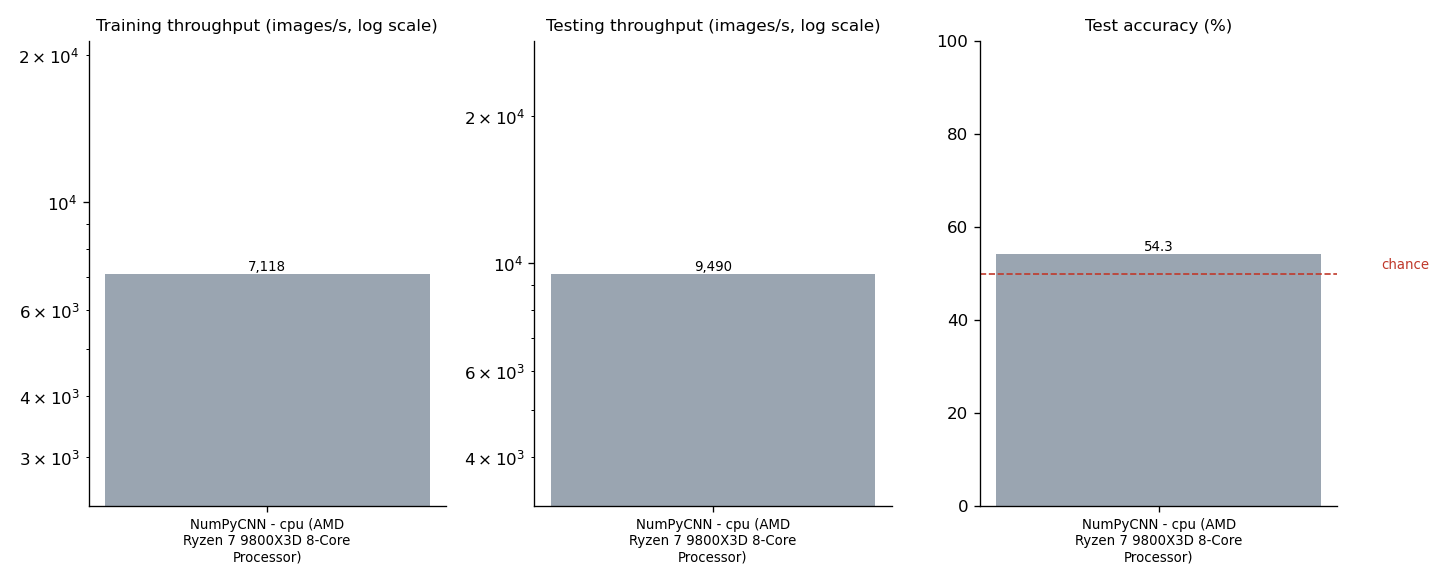
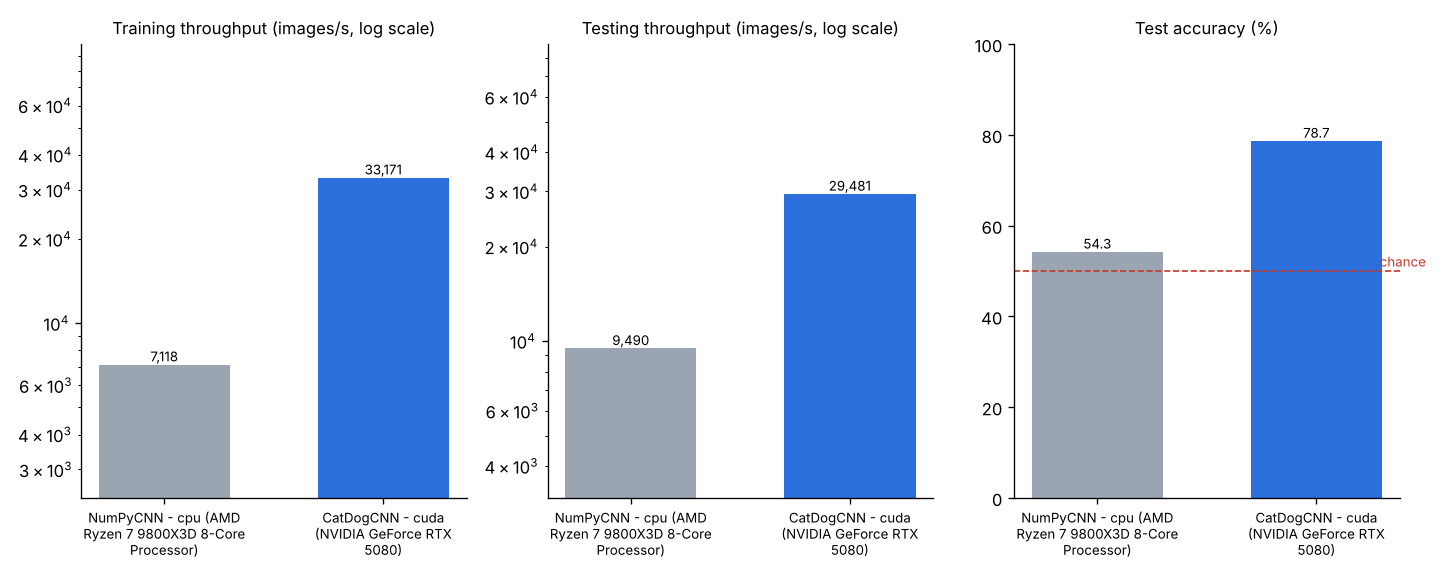
regenerate NumPy vs GPU comparison with final results
- results/comparison.md, .csv, .png, summary.json: both final runs (NumPy CPU vs PyTorch RTX 5080)
- GPU trains 4.7x faster, tests 3.1x faster (12.2x forward-only); accuracy 78.68% vs 54.25%
- scripts/compare.py: added forward-only time and trained-parameter columns, GPU machine info, model-difference note
- tests/test_results_pipeline.py: updated wording check (9/9 tests pass)

diff --git a/scripts/compare.py b/scripts/compare.py
@@ -59,6 +59,26 @@ def fmt_time(s):
     return f"{s:.2f} s"
 
 
+def trained_params(r):
+    """Number of trained parameters, from either result format (None if not recorded)."""
+    for key in ("trainable_parameters", "parameter_count"):
+        if isinstance(r.get(key), int):
+            return r[key]
+    return None
+
+
+def machine(r):
+    if r.get("machine"):
+        return r["machine"]
+    env = r.get("environment") or {}                     # src/part3_torch.py records it here
+    if env.get("platform"):
+        return env["platform"] + (f" / Python {env['python']}" if env.get("python") else "")
+    return "-"
+
+
+SKIP_SETTINGS = {"epochs", "seed", "output", "data_dir", "device"}   # shown elsewhere or not a setting
+
+
 def build(runs):
     base = next((r for r in runs if r["is_numpy"]), runs[0])
     rows = []
@@ -70,16 +90,19 @@ def build(runs):
             "Train img/s": f"{r['train_images_per_sec']:,.0f}",
             "Test time": fmt_time(r["test_seconds"]),
             "Test ms/img": f"{1000*r['test_seconds']/r['n_test']:.3f}",
+            "Compute ms/img": (f"{1000*r['test_compute_seconds']/r['n_test']:.3f}"
+                               if r.get("test_compute_seconds") else "-"),
             "Train speed-up": f"{r['train_images_per_sec']/base['train_images_per_sec']:,.1f}x",
             "Test speed-up": f"{r['test_images_per_sec']/base['test_images_per_sec']:,.1f}x",
             "Test accuracy": f"{100*r['test_accuracy']:.2f}%",
         })
     config_rows = [{
-        "Model": r["model"], "Device": r["device"], "Machine": r.get("machine", ""),
+        "Model": r["model"], "Device": r["device"], "Machine": machine(r),
+        "Trained parameters": f"{trained_params(r):,}" if trained_params(r) else "-",
         "Split fingerprint": r["data_split_fingerprint"], "Seed": r["seed"],
         "Image size": f"{r['image_size']}x{r['image_size']}",
         "Other settings": ", ".join(f"{k}={v}" for k, v in sorted((r.get("config") or {}).items())
-                                    if k not in ("epochs", "seed")) or "-",
+                                    if k not in SKIP_SETTINGS) or "-",
     } for r in runs]
     return base, rows, config_rows
 
@@ -95,7 +118,8 @@ def findings(runs, base):
     """Plain-language findings computed from the numbers, so the report's conclusions match the data."""
     lines = []
     fps = {r["data_split_fingerprint"] for r in runs}
-    lines.append((f"All {len(runs)} runs used" if len(runs) > 1 else "The run used") +
+    lines.append(("Both runs used" if len(runs) == 2 else f"All {len(runs)} runs used" if len(runs) > 2
+                  else "The run used") +
                  f" the data split with fingerprint `{fps.pop()}`."
                  if len(fps) == 1 else
                  "WARNING: the runs used different data splits, so they are not directly comparable.")
@@ -116,6 +140,15 @@ def findings(runs, base):
             f"and tests {te:,.1f}x {'faster' if te >= 1 else 'slower'} per image than {base['model']}, "
             f"with test accuracy {100*r['test_accuracy']:.2f}% vs {100*base['test_accuracy']:.2f}% "
             f"({'+' if d >= 0 else ''}{d:.2f} percentage points).")
+        if r.get("test_compute_seconds") and base.get("test_compute_seconds"):
+            cs = base["test_compute_seconds"] / r["test_compute_seconds"]
+            lines.append(f"Counting only model computation (no batching or metrics), {r['model']} tests "
+                         f"{cs:,.1f}x faster than {base['model']}.")
+        pr, pb = trained_params(r), trained_params(base)
+        if pr and pb and pr != pb:
+            lines.append(f"The models are not the same network: {r['model']} trains {pr:,} parameters and "
+                         f"{base['model']} {pb:,}, so the speed-up reflects both the hardware/framework and the "
+                         "different amount of work per image, and the accuracy gap mainly reflects the model.")
     for r in runs:
         if abs(r["test_accuracy"] - 0.5) < 0.03:
             lines.append(f"{r['model']} ({100*r['test_accuracy']:.2f}%) is close to chance level (50%).")
@@ -174,7 +207,8 @@ def main():
     md = ["# NumPy vs. PyTorch comparison", "",
           "## Results", "", md_table(rows), "",
           f"Speed-ups are relative to {base['model']} ({base['device']}). "
-          "Test time is per image over the whole test set.", "",
+          "`Test time` is the total for all test images; `Test ms/img` is the per-image average; "
+          "`Compute ms/img` counts only the model's forward pass.", "",
           "## Run configuration", "", md_table(config_rows), "",
           "## Findings", ""] + [f"- {x}" for x in found]
     with open(os.path.join(args.results, "comparison.md"), "w") as f:

diff --git a/tests/test_results_pipeline.py b/tests/test_results_pipeline.py
@@ -103,7 +103,7 @@ def main():
         found = mr.findings(runs, base)
         check("5. comparison: NumPy is the baseline, GPU speed-up 100x, findings match",
               base["model"] == "NumPy CNN" and rows[1]["Train speed-up"] == "100.0x"
-              and any("100.0x faster" in f for f in found) and any("All 2 runs used the data split" in f for f in found),
+              and any("100.0x faster" in f for f in found) and any("Both runs used the data split" in f for f in found),
               f"speed-up {rows[1]['Train speed-up']}")
 
         # 5b. Part III's own result format (src/part3_torch.py) is accepted by the tools

diff --git a/results/comparison.md b/results/comparison.md
@@ -2,21 +2,23 @@
 
 ## Results
 
-| Model | Device | Train images | Epochs | Test images | Train time | Train img/s | Test time | Test ms/img | Train speed-up | Test speed-up | Test accuracy |
-|---|---|---|---|---|---|---|---|---|---|---|---|
-| NumPyCNN | cpu (AMD Ryzen 7 9800X3D 8-Core Processor) | 18727 | 10 | 4682 | 26.31 s | 7,118 | 493.4 ms | 0.105 | 1.0x | 1.0x | 54.25% |
+| Model | Device | Train images | Epochs | Test images | Train time | Train img/s | Test time | Test ms/img | Compute ms/img | Train speed-up | Test speed-up | Test accuracy |
+|---|---|---|---|---|---|---|---|---|---|---|---|---|
+| NumPyCNN | cpu (AMD Ryzen 7 9800X3D 8-Core Processor) | 18727 | 10 | 4682 | 26.31 s | 7,118 | 493.4 ms | 0.105 | 0.095 | 1.0x | 1.0x | 54.25% |
+| CatDogCNN | cuda (NVIDIA GeForce RTX 5080) | 18727 | 10 | 4682 | 5.65 s | 33,171 | 158.8 ms | 0.034 | 0.008 | 4.7x | 3.1x | 78.68% |
 
-Speed-ups are relative to NumPyCNN (cpu (AMD Ryzen 7 9800X3D 8-Core Processor)).
-`Test time` is the total for all test images; `Test ms/img` is the per-image average.
-Only the NumPy baseline is available. The 1.0x values compare the baseline with
-itself; GPU speedups require a real PyTorch GPU result.
+Speed-ups are relative to NumPyCNN (cpu (AMD Ryzen 7 9800X3D 8-Core Processor)). `Test time` is the total for all test images; `Test ms/img` is the per-image average; `Compute ms/img` counts only the model's forward pass.
 
 ## Run configuration
 
-| Model | Device | Machine | Split fingerprint | Seed | Image size | Other settings |
-|---|---|---|---|---|---|---|
-| NumPyCNN | cpu (AMD Ryzen 7 9800X3D 8-Core Processor) | Linux-6.6.87.2-microsoft-standard-WSL2-x86_64-with-glibc2.39 / Python 3.12.13 | 5deb0f27f6c5 | 3 | 64x64 | batch_size=1, convolution=NumPy vectorized einsum, data_seed=3, inference_batch_size=64, lr=0.001, max_test_per_class=0, max_train_per_class=0, test_block_size=1000, trained_layers=fully connected only |
+| Model | Device | Machine | Trained parameters | Split fingerprint | Seed | Image size | Other settings |
+|---|---|---|---|---|---|---|---|
+| NumPyCNN | cpu (AMD Ryzen 7 9800X3D 8-Core Processor) | Linux-6.6.87.2-microsoft-standard-WSL2-x86_64-with-glibc2.39 / Python 3.12.13 | 962 | 5deb0f27f6c5 | 3 | 64x64 | batch_size=1, convolution=NumPy vectorized einsum, data_seed=3, inference_batch_size=64, lr=0.001, max_test_per_class=0, max_train_per_class=0, test_block_size=1000, trained_layers=fully connected only |
+| CatDogCNN | cuda (NVIDIA GeForce RTX 5080) | Linux-6.6.87.2-microsoft-standard-WSL2-x86_64-with-glibc2.39 / Python 3.10.20 | 529,505 | 5deb0f27f6c5 | 3 | 64x64 | batch_size=64, cpu_threads=4, lr=0.001, max_test_per_class=0, max_train_per_class=0, num_workers=0, test_block_size=1000 |
 
 ## Findings
 
-- The run used the data split with fingerprint `5deb0f27f6c5`.
+- Both runs used the data split with fingerprint `5deb0f27f6c5`.
+- CatDogCNN on cuda (NVIDIA GeForce RTX 5080) trains 4.7x faster and tests 3.1x faster per image than NumPyCNN, with test accuracy 78.68% vs 54.25% (+24.43 percentage points).
+- Counting only model computation (no batching or metrics), CatDogCNN tests 12.2x faster than NumPyCNN.
+- The models are not the same network: CatDogCNN trains 529,505 parameters and NumPyCNN 962, so the speed-up reflects both the hardware/framework and the different amount of work per image, and the accuracy gap mainly reflects the model.
